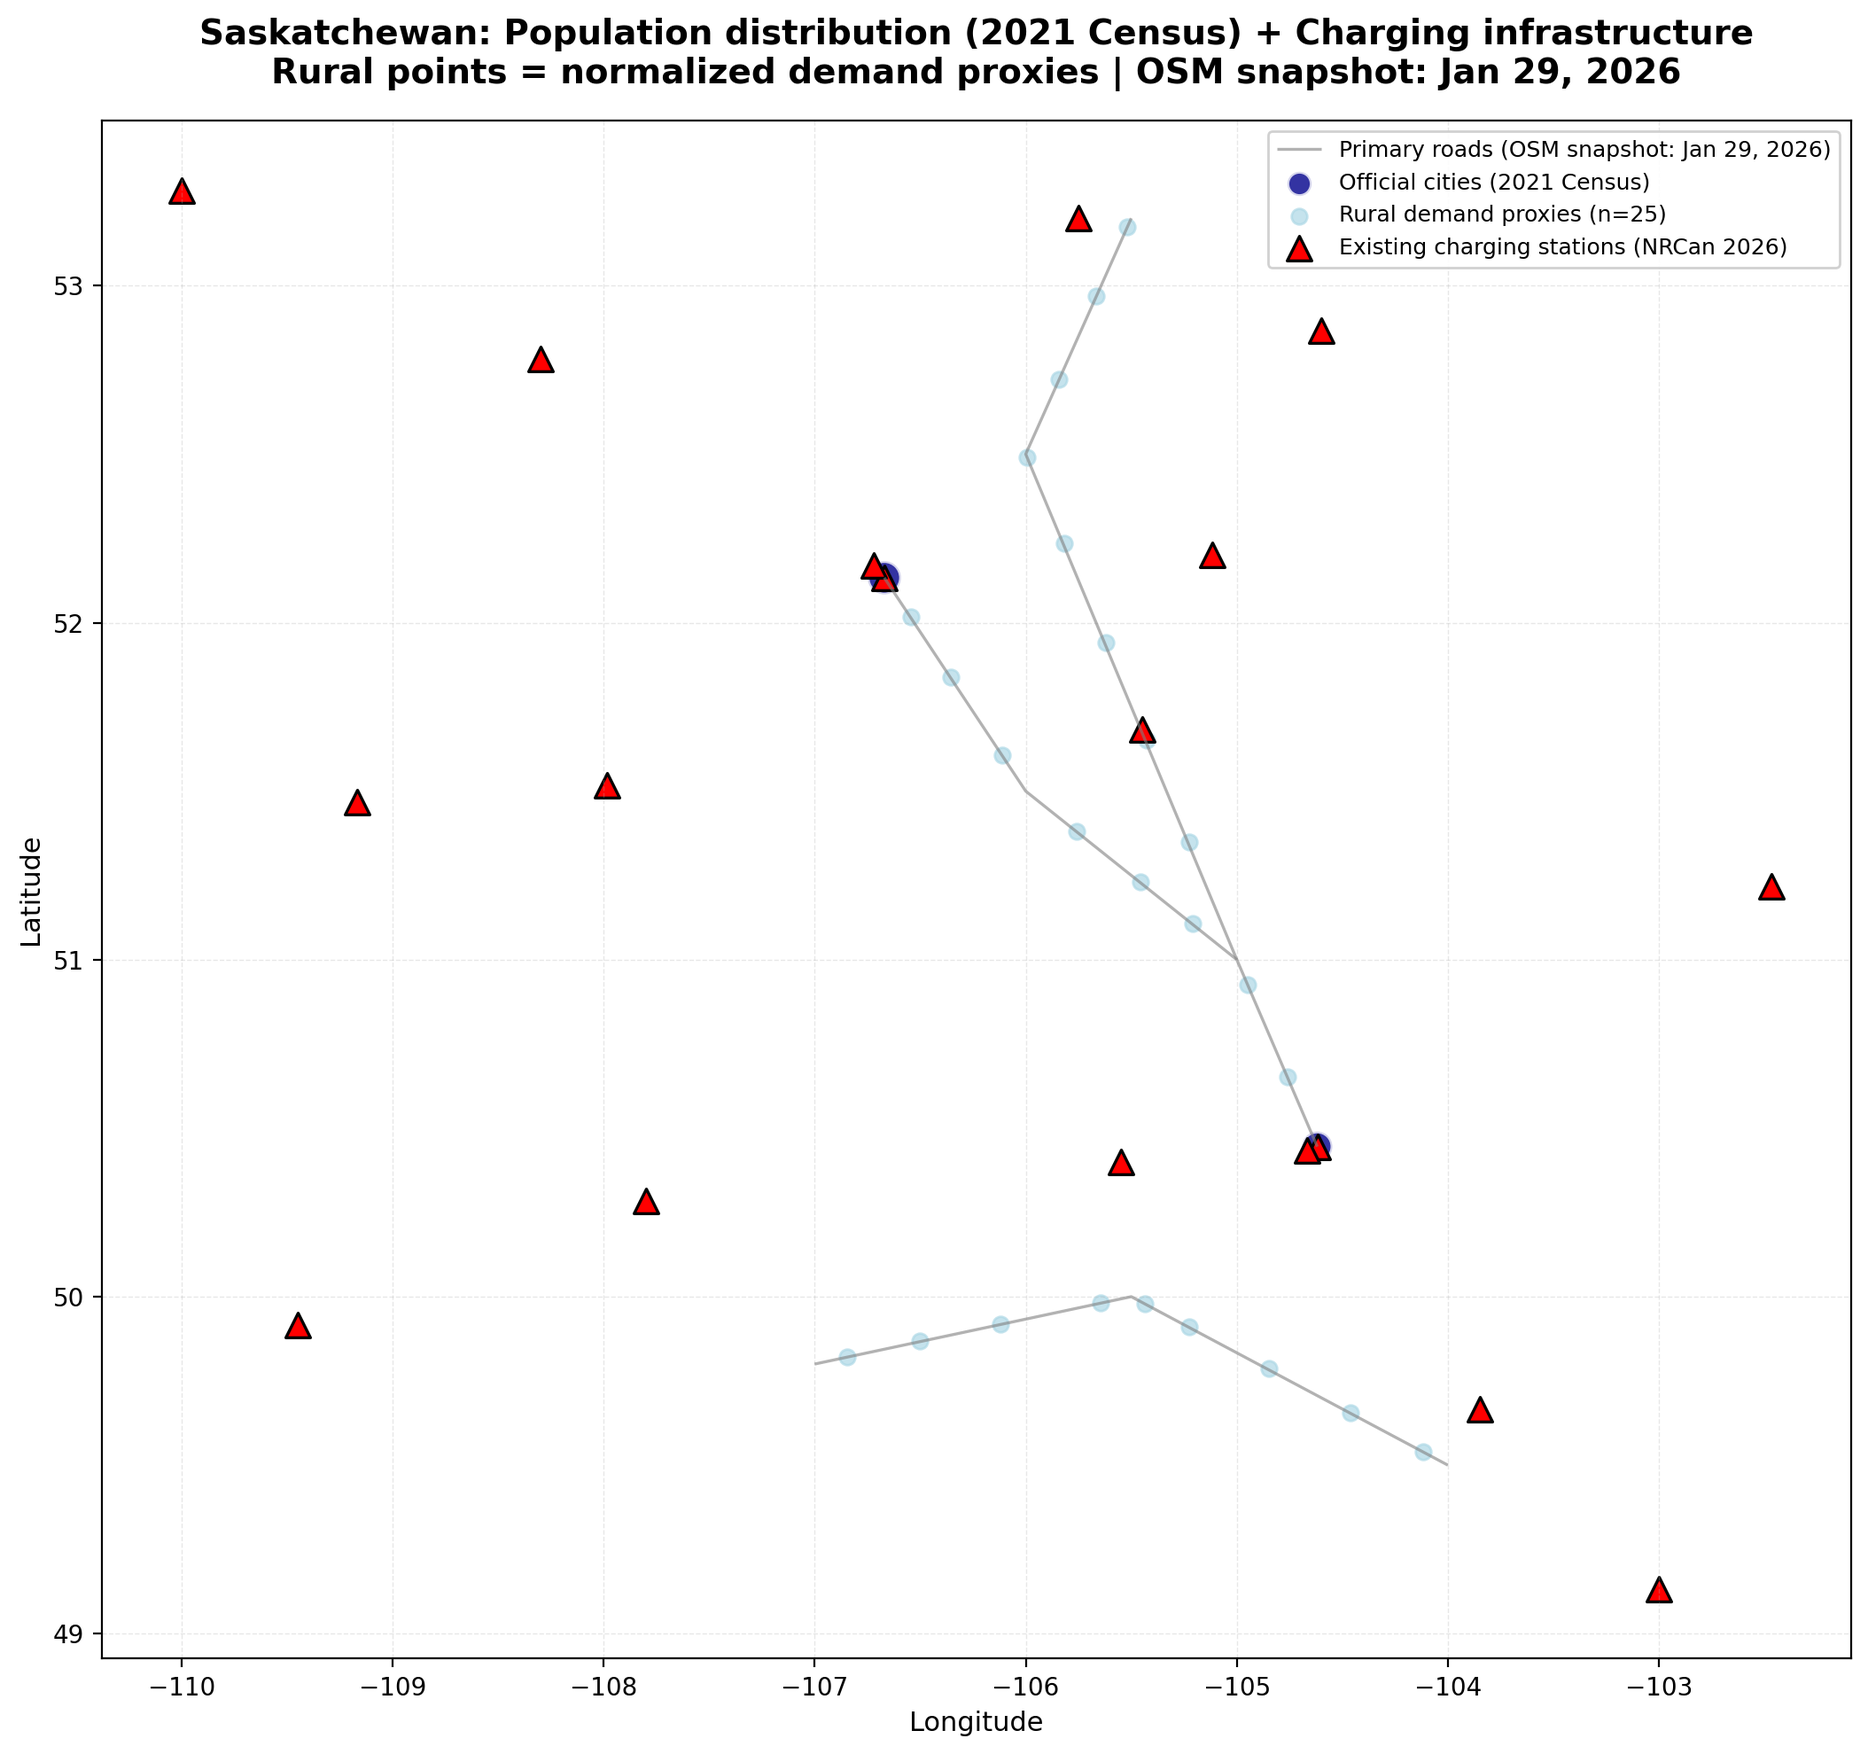
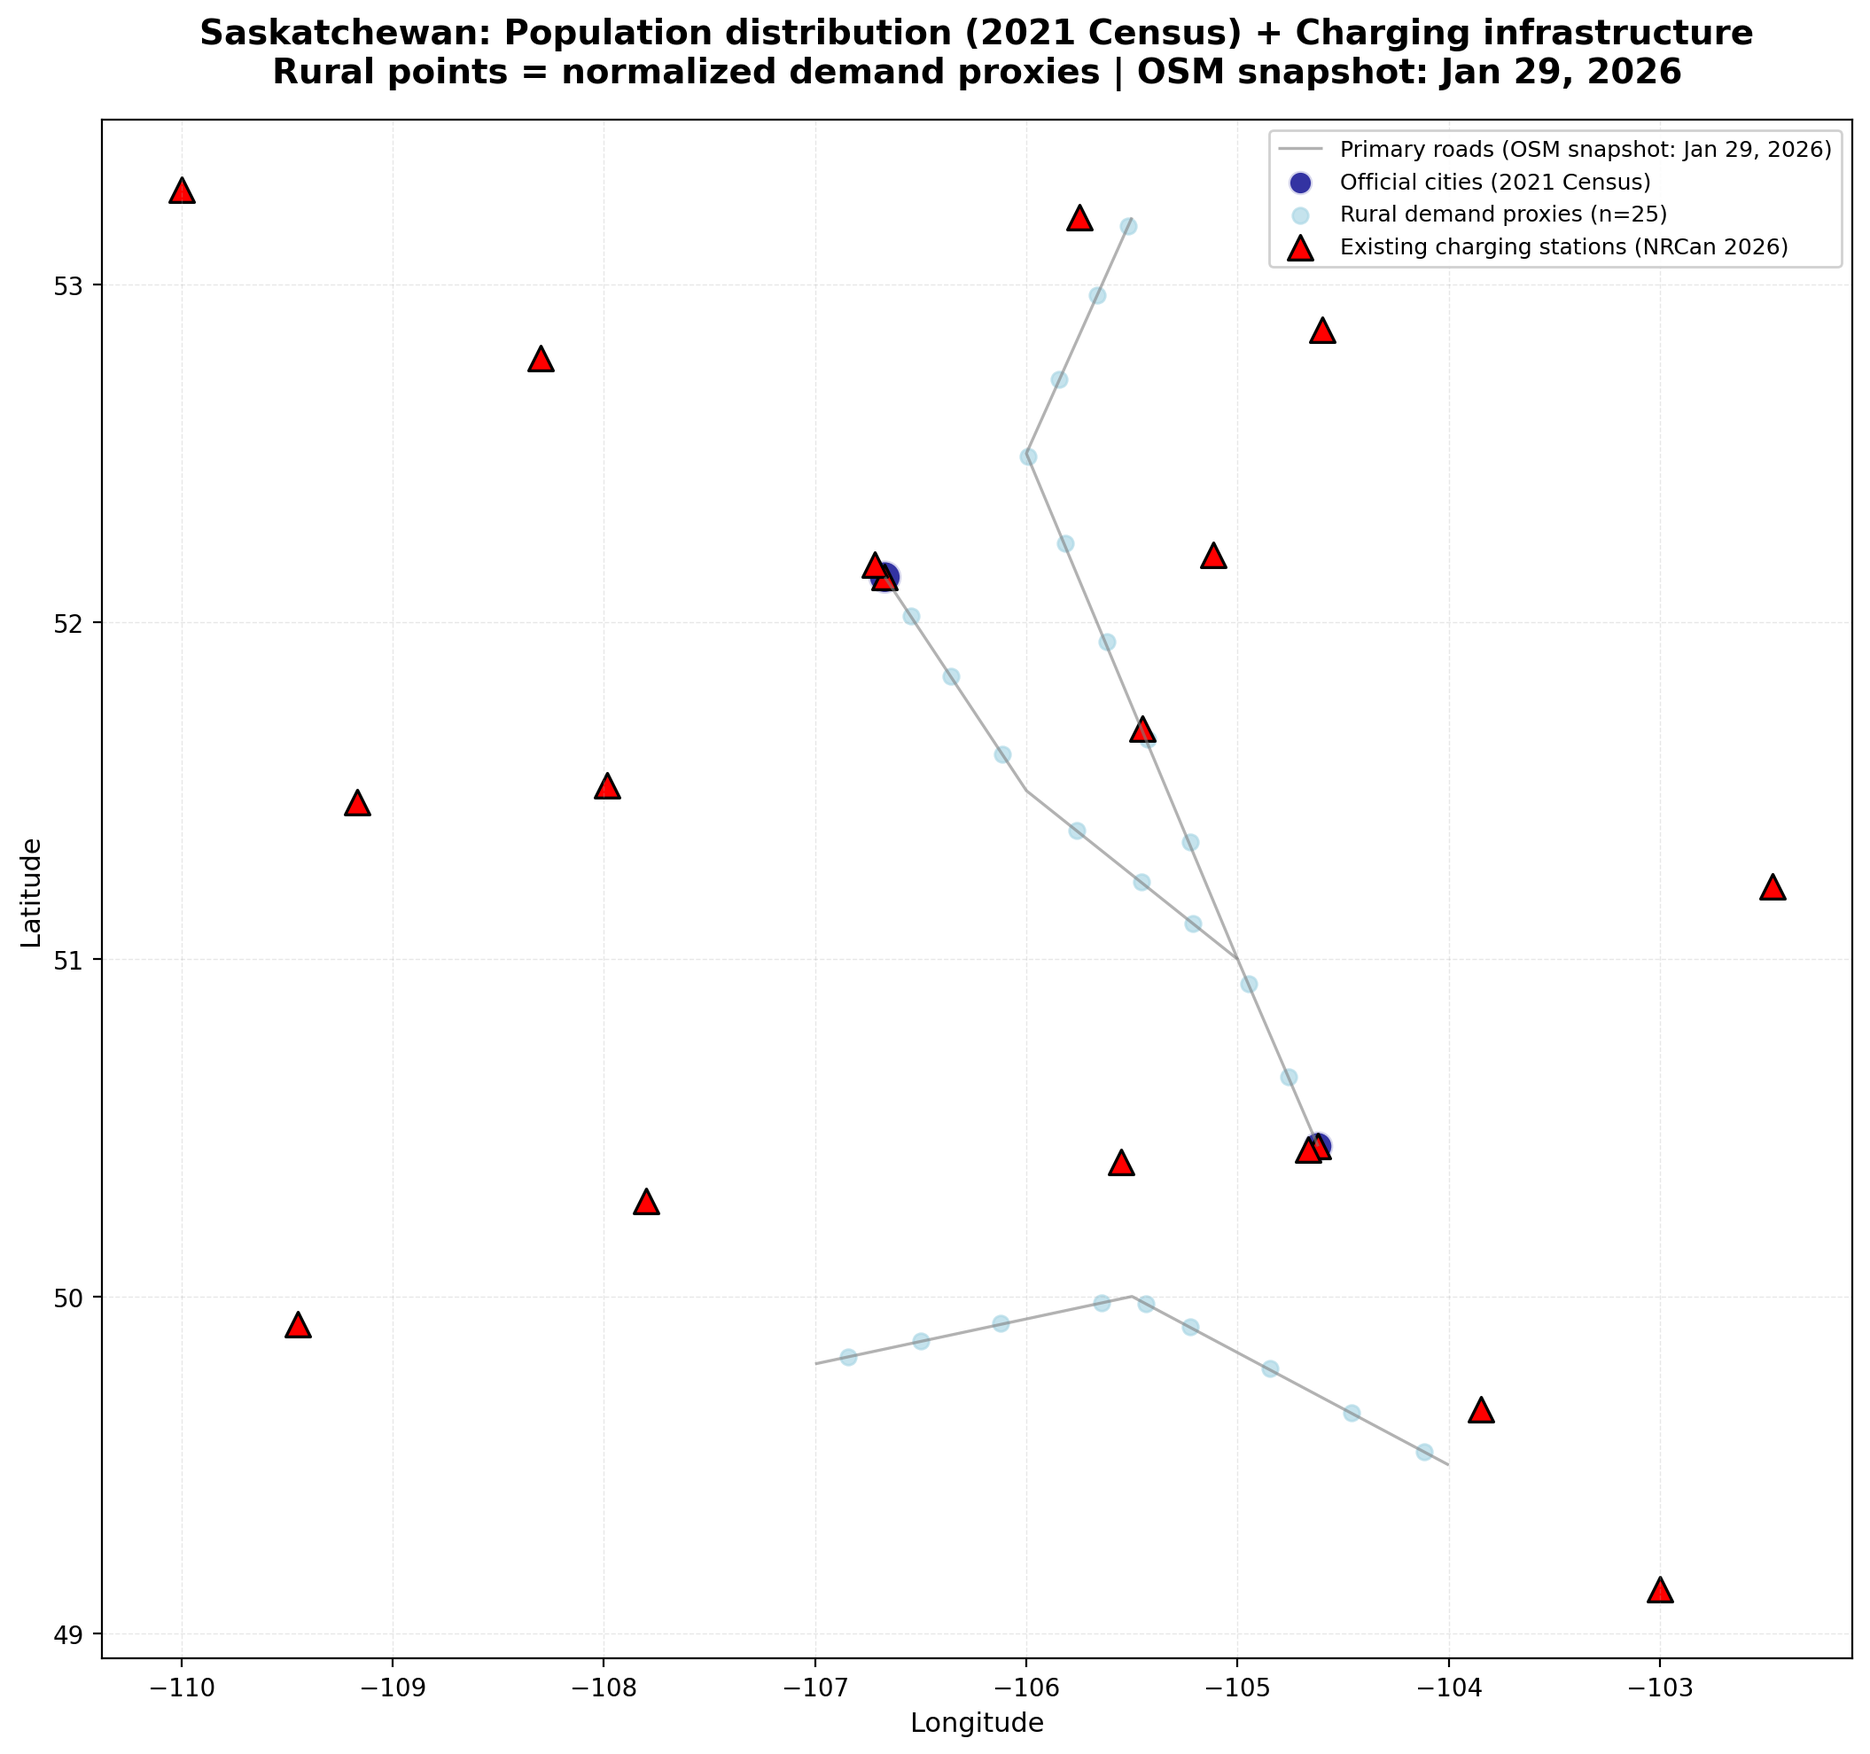
feat: Connect Interactive Map to real training data

diff --git a/cana-alb/ev_charging_optimization/dashboard/index.html b/cana-alb/ev_charging_optimization/dashboard/index.html
@@ -465,45 +465,56 @@
             rlStations: []
         };
 
-        // Load real data from API
+        // Load real data from API (same data as env.py / data_loader.py)
         async function loadRealData() {
             try {
-                const response = await fetch('/api/run-optimization');
-                if (!response.ok) throw new Error('API error');
-                const data = await response.json();
+                document.getElementById('status-badge').textContent = 'Loading...';
+                document.getElementById('status-badge').style.background = '#ecc94b';
                 
-                // Update saskData with real data
-                saskData.baseline.stations = data.baseline.stations;
-                saskData.baseline.coverage = data.baseline.coverage_percent;
-                saskData.baseline.maxDistance = data.baseline.max_distance_km;
+                // Load training data (18 NRCan stations + 32 population points)
+                const trainingResponse = await fetch('/api/training-data');
+                if (!trainingResponse.ok) throw new Error('Training data API error');
+                const trainingData = await trainingResponse.json();
                 
-                saskData.optimized.stations = data.optimized.stations;
-                saskData.optimized.coverage = data.optimized.coverage_percent;
-                saskData.optimized.maxDistance = data.optimized.max_distance_km;
-                saskData.optimized.newStations = data.optimized.new_stations;
+                console.log('Training data loaded:', trainingData);
                 
-                // Update station lists
-                saskData.existingStations = data.baseline.stations_list.map(s => ({
-                    name: s.name,
-                    lat: s.lat,
-                    lng: s.lng,
-                    chargers: s.chargers,
-                    type: 'existing',
-                    utilization: 0.7
-                }));
+                // Update saskData with REAL training data
+                saskData.existingStations = trainingData.existing_stations;
+                saskData.baseline.stations = trainingData.summary.total_stations;
                 
-                saskData.rlStations = data.optimized.stations_list
-                    .filter(s => s.type === 'new')
-                    .map(s => ({
-                        name: s.name,
-                        lat: s.lat,
-                        lng: s.lng,
-                        chargers: s.chargers,
-                        type: 'rl',
-                        utilization: 0.5
-                    }));
+                // Load optimization results for metrics
+                try {
+                    const optResponse = await fetch('/api/run-optimization');
+                    if (optResponse.ok) {
+                        const optData = await optResponse.json();
+                        saskData.baseline.coverage = optData.baseline.coverage_percent;
+                        saskData.baseline.maxDistance = optData.baseline.max_distance_km;
+                        saskData.optimized.stations = optData.optimized.stations;
+                        saskData.optimized.coverage = optData.optimized.coverage_percent;
+                        saskData.optimized.maxDistance = optData.optimized.max_distance_km;
+                        saskData.optimized.newStations = optData.optimized.new_stations;
+                        
+                        // Get RL stations from optimization
+                        saskData.rlStations = optData.optimized.stations_list
+                            .filter(s => s.type === 'new')
+                            .map(s => ({
+                                name: s.name,
+                                lat: s.lat,
+                                lng: s.lng,
+                                chargers: s.chargers,
+                                type: 'rl',
+                                utilization: 0.5
+                            }));
+                    }
+                } catch (e) {
+                    console.log('Optimization API not available, using training data only');
+                }
                 
-                console.log('Real data loaded:', saskData);
+                // Store road segments for map
+                saskData.roads = trainingData.road_segments;
+                saskData.populationCenters = trainingData.population_centers;
+                
+                console.log('Saskatchewan data updated:', saskData);
                 
                 // Show real maps section
                 document.getElementById('real-maps-section').style.display = 'grid';
@@ -518,7 +529,7 @@
                 initCharts();
                 populateTable();
                 
-                document.getElementById('status-badge').textContent = 'Real Data Loaded';
+                document.getElementById('status-badge').textContent = `Real Data (${trainingData.summary.total_stations} stations)`;
                 document.getElementById('status-badge').style.background = '#38a169';
                 
             } catch (error) {
@@ -568,7 +579,7 @@
         // Initialize map
         function initMap() {
             const data = getCurrentData();
-            const center = currentScenario === 'saskatchewan' ? [53.5, -106.0] : [51.045, -114.07];
+            const center = currentScenario === 'saskatchewan' ? [51.5, -106.0] : [51.045, -114.07];
             const zoom = currentScenario === 'saskatchewan' ? 5 : 12;
 
             if (map) {
@@ -581,8 +592,37 @@
                 attribution: '© OpenStreetMap contributors'
             }).addTo(map);
 
-            // Add existing station markers (red triangles)
-            data.existingStations.forEach(station => {
+            // Add roads (gray lines) - same as Real Data Map
+            if (data.roads && data.roads.length > 0) {
+                data.roads.forEach(road => {
+                    L.polyline(road.coordinates, {
+                        color: '#666',
+                        weight: 3,
+                        opacity: 0.7
+                    }).addTo(map).bindPopup(`<strong>${road.name}</strong><br>Primary Road (OSM)`);
+                });
+            }
+
+            // Add population centers (blue circles) - same as Real Data Map
+            if (data.populationCenters && data.populationCenters.length > 0) {
+                data.populationCenters.forEach(pop => {
+                    const size = Math.max(4, Math.min(15, pop.population / 20000));
+                    L.circleMarker([pop.lat, pop.lng], {
+                        radius: size,
+                        fillColor: '#3182ce',
+                        color: '#2c5282',
+                        weight: 1,
+                        opacity: 0.8,
+                        fillOpacity: 0.5
+                    }).addTo(map).bindPopup(`
+                        <strong>${pop.name}</strong><br>
+                        Population: ${pop.population.toLocaleString()}
+                    `);
+                });
+            }
+
+            // Add existing station markers (red triangles) - 18 NRCan stations
+            data.existingStations.forEach((station, idx) => {
                 const marker = L.circleMarker([station.lat, station.lng], {
                     radius: 10,
                     fillColor: '#e53e3e',
@@ -593,31 +633,33 @@
                 }).addTo(map);
 
                 marker.bindPopup(`
-                    <strong>${station.name}</strong><br>
-                    <span style="color: #e53e3e;">Existing Station</span><br>
-                    Chargers: ${station.chargers}<br>
-                    Utilization: ${(station.utilization * 100).toFixed(0)}%
+                    <strong>${station.name || 'NRCan Station ' + (idx + 1)}</strong><br>
+                    <span style="color: #e53e3e;">Existing Station (NRCan)</span><br>
+                    Chargers: ${station.chargers || 4}<br>
+                    Lat: ${station.lat.toFixed(4)}, Lng: ${station.lng.toFixed(4)}
                 `);
             });
 
             // Add RL station markers (green stars)
-            data.rlStations.forEach(station => {
-                const marker = L.circleMarker([station.lat, station.lng], {
-                    radius: 12,
-                    fillColor: '#38a169',
-                    color: '#9f7aea',
-                    weight: 3,
-                    opacity: 1,
-                    fillOpacity: 0.8
-                }).addTo(map);
+            if (data.rlStations && data.rlStations.length > 0) {
+                data.rlStations.forEach(station => {
+                    const marker = L.circleMarker([station.lat, station.lng], {
+                        radius: 14,
+                        fillColor: '#38a169',
+                        color: '#ffd700',
+                        weight: 3,
+                        opacity: 1,
+                        fillOpacity: 0.9
+                    }).addTo(map);
 
-                marker.bindPopup(`
-                    <strong>${station.name}</strong><br>
-                    <span style="color: #9f7aea;">RL-Optimized Station</span><br>
-                    Chargers: ${station.chargers}<br>
-                    Est. Utilization: ${(station.utilization * 100).toFixed(0)}%
-                `);
-            });
+                    marker.bindPopup(`
+                        <strong>${station.name}</strong><br>
+                        <span style="color: #38a169;">RL-Proposed Station</span><br>
+                        Chargers: ${station.chargers}<br>
+                        Lat: ${station.lat.toFixed(4)}, Lng: ${station.lng.toFixed(4)}
+                    `);
+                });
+            }
 
             // Add legend
             const legend = L.control({ position: 'bottomright' });
@@ -625,12 +667,20 @@
                 const div = L.DomUtil.create('div', 'legend');
                 div.innerHTML = `
                     <div class="legend-item">
-                        <div class="legend-dot" style="background: #e53e3e;"></div>
-                        <span>Existing Stations</span>
+                        <div class="legend-dot" style="background: #666;"></div>
+                        <span>Primary Roads (OSM)</span>
                     </div>
                     <div class="legend-item">
-                        <div class="legend-dot" style="background: #38a169; border: 2px solid #9f7aea;"></div>
-                        <span>RL-Optimized (New)</span>
+                        <div class="legend-dot" style="background: #3182ce;"></div>
+                        <span>Population Centers</span>
+                    </div>
+                    <div class="legend-item">
+                        <div class="legend-dot" style="background: #e53e3e;"></div>
+                        <span>Existing Stations (${data.existingStations.length})</span>
+                    </div>
+                    <div class="legend-item">
+                        <div class="legend-dot" style="background: #38a169; border: 2px solid #ffd700;"></div>
+                        <span>RL-Proposed (${data.rlStations ? data.rlStations.length : 0})</span>
                     </div>
                 `;
                 return div;

diff --git a/cana-alb/ev_charging_optimization/src/api/main.py b/cana-alb/ev_charging_optimization/src/api/main.py
@@ -667,7 +667,7 @@ async def get_real_stations():
     """Get real station data from the data_loader output."""
     import geopandas as gpd
     
-    # Load from data_loader generated CSV
+    # Load from data_loader generated CSV (18 NRCan stations)
     csv_path = real_data_root / "data" / "existing_stations_nrcan_snapshot_20260128.csv"
     if csv_path.exists():
         import pandas as pd
@@ -694,6 +694,81 @@ async def get_real_stations():
         }
     
     raise HTTPException(status_code=404, detail="No station data found")
+
+
+@app.get("/api/training-data")
+async def get_training_data():
+    """
+    Get the EXACT same data used by env.py / data_loader.py for training.
+    Returns 18 NRCan stations + 32 population points.
+    """
+    import sys
+    import os
+    import geopandas as gpd
+    
+    # Add real_data_source to path to import data_loader
+    real_data_path = str(real_data_root)
+    if real_data_path not in sys.path:
+        sys.path.insert(0, real_data_path)
+    
+    # Change to real_data_source directory so data_loader finds its files
+    original_cwd = os.getcwd()
+    os.chdir(real_data_path)
+    
+    try:
+        # Reload the module to pick up the correct path
+        if 'data_loader' in sys.modules:
+            del sys.modules['data_loader']
+        from data_loader import load_saskatchewan_data as load_training_data
+        
+        pop, roads, stations = load_training_data(use_cached_only=True)
+        
+        # Format for dashboard
+        existing_stations = []
+        for idx, row in stations.iterrows():
+            existing_stations.append({
+                "name": f"NRCan Station {idx + 1}",
+                "lat": float(row.geometry.y),
+                "lng": float(row.geometry.x),
+                "chargers": 4,
+                "type": "existing",
+                "utilization": 0.7
+            })
+        
+        population_centers = []
+        for idx, row in pop.iterrows():
+            population_centers.append({
+                "name": row.get("name", f"Location {idx + 1}"),
+                "lat": float(row.geometry.y),
+                "lng": float(row.geometry.x),
+                "population": int(row["population"]) if "population" in row else 0
+            })
+        
+        road_segments = []
+        for idx, row in roads.iterrows():
+            coords = list(row.geometry.coords)
+            road_segments.append({
+                "name": row.get("name", f"Highway {idx + 1}"),
+                "coordinates": [[c[1], c[0]] for c in coords]  # [lat, lng] for Leaflet
+            })
+        
+        return {
+            "status": "ok",
+            "source": "data_loader.py (same as env.py training)",
+            "existing_stations": existing_stations,
+            "population_centers": population_centers,
+            "road_segments": road_segments,
+            "summary": {
+                "total_stations": len(existing_stations),
+                "total_population_points": len(population_centers),
+                "total_roads": len(road_segments)
+            }
+        }
+    except Exception as e:
+        raise HTTPException(status_code=500, detail=f"Failed to load training data: {str(e)}")
+    finally:
+        # Restore original working directory
+        os.chdir(original_cwd)
 
 
 if __name__ == "__main__":
